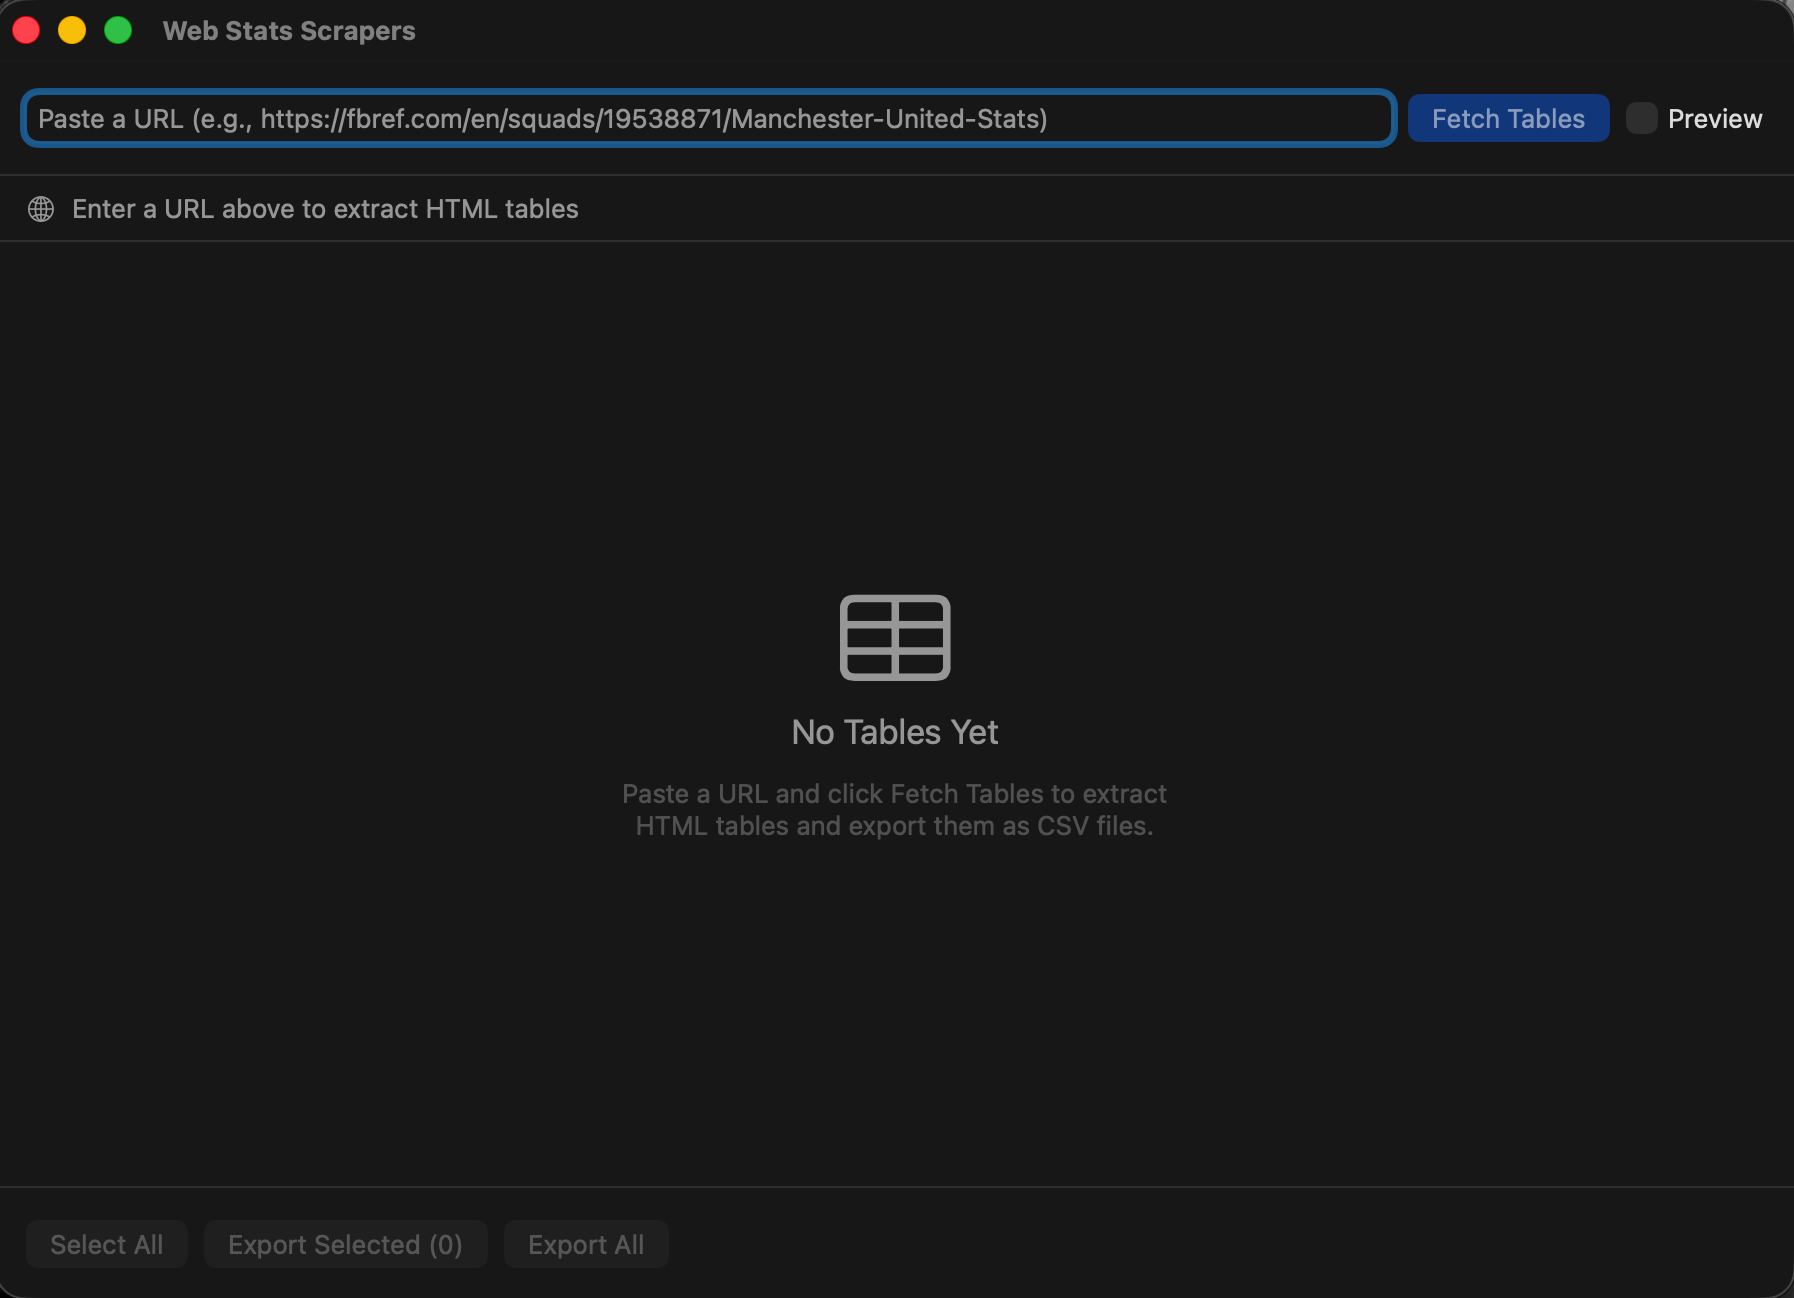
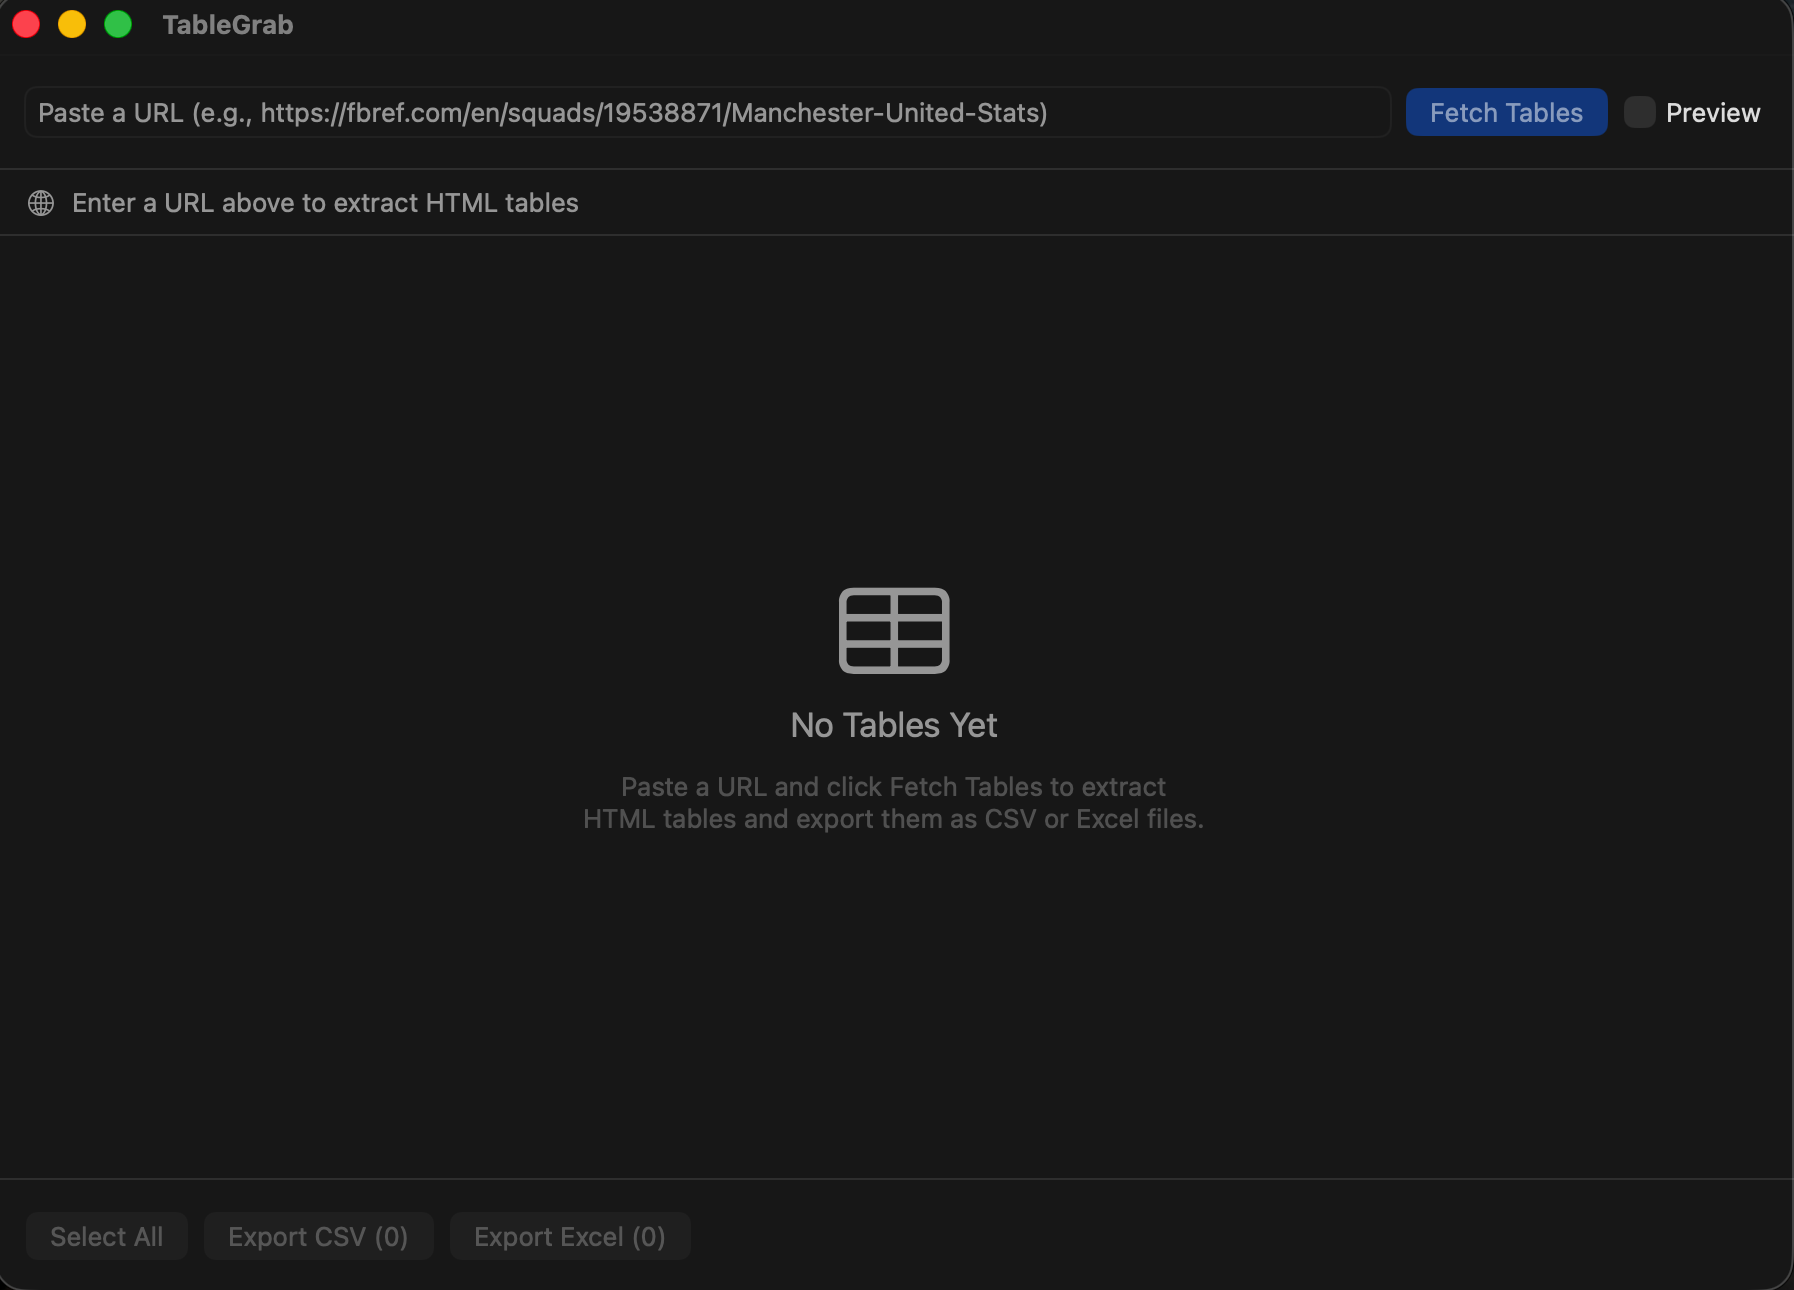
Update screenshots to TableGrab branding; add bot-check screenshot to its section

diff --git a/README.md b/README.md
@@ -138,6 +138,8 @@ you'll get a clear prompt with a **Show Preview & Retry** button. (Detection is
 language-independent, so it works even when the challenge shows up localized —
 e.g. "Un instant…" instead of "Just a moment…".)
 
+![Bot-check prompt](screenshots/bot-check.png)
+
 To get through the wall:
 
 1. Click **Show Preview & Retry** (or just turn on the **Preview** checkbox
